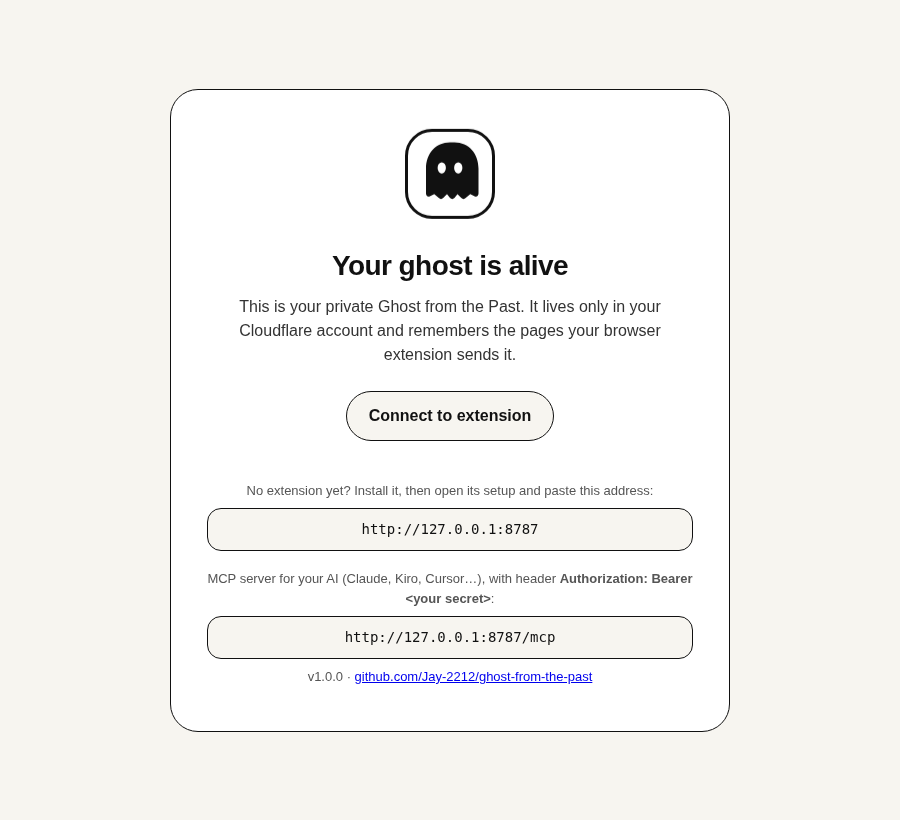
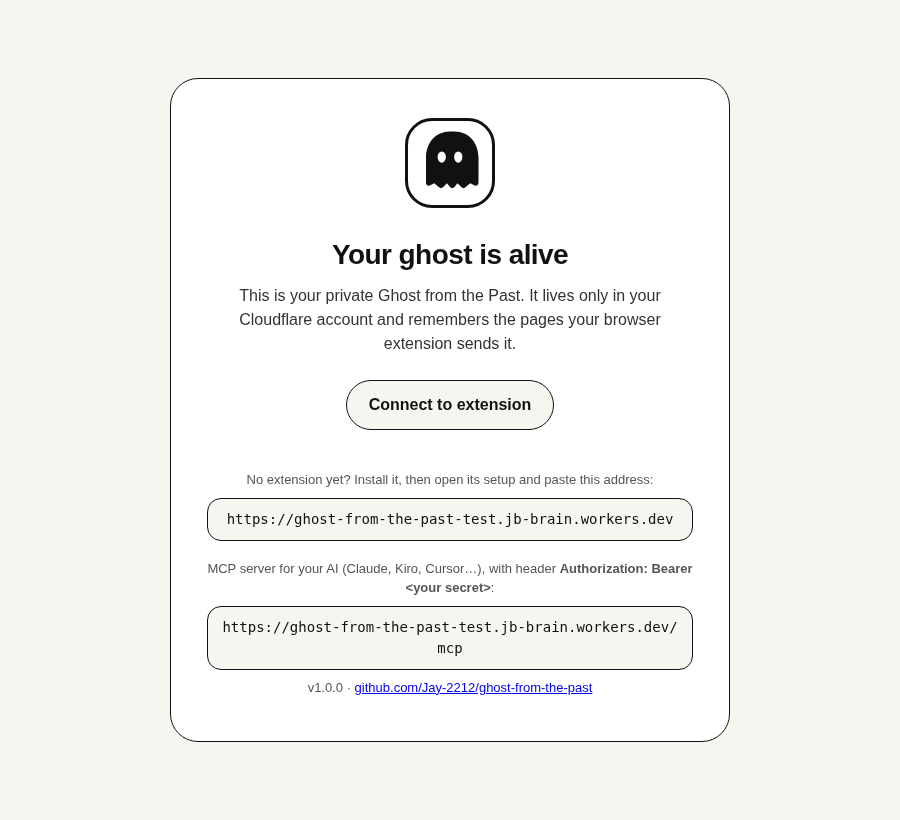
tests: hard timeout on secret wait; e2e passes connect against wrangler dev and a deployed test Worker (Hark)

diff --git a/shots/mcp-get_page-wikipedia.md b/shots/mcp-get_page-wikipedia.md
@@ -1,0 +1,23 @@
+# Ghost
+https://en.wikipedia.org/wiki/Ghost
+Kind: wikipedia-article · first read 2026-11-05T07:37:11.692Z · last 2026-11-05T07:37:16.175Z · time spent 4s · visits 1
+
+---
+
+# Ghost
+
+> Wikipedia article · en.wikipedia.org
+
+In [folklore](https://en.wikipedia.org/wiki/Folklore "Folklore"), a **ghost** is the [soul](https://en.wikipedia.org/wiki/Soul "Soul") or [spirit](https://en.wikipedia.org/wiki/Spirit_\(supernatural_entity\) "Spirit (supernatural entity)") of a dead [person](https://en.wikipedia.org/wiki/Human "Human") or non-human [animal](https://en.wikipedia.org/wiki/Animal "Animal") that is believed by some people to be able to appear to the living. In [ghostlore](https://en.wikipedia.org/wiki/Ghostlore "Ghostlore"), descriptions of ghosts vary widely, from an invisible presence to translucent or barely visible wispy shapes to realistic, lifelike forms, whether they resemble humans or animals. The deliberate attempt to contact the spirit of a deceased person is known as [necromancy](https://en.wikipedia.org/wiki/Necromancy "Necromancy"), or in [spiritism](https://en.wikipedia.org/wiki/Kardecist_spiritism "Kardecist spiritism") as a _[séance](https://en.wikipedia.org/wiki/Séance "Séance")_. Other terms associated with it are apparition, haunt, haint, phantom, [poltergeist](https://en.wikipedia.org/wiki/Poltergeist "Poltergeist"), [shade](https://en.wikipedia.org/wiki/Shade_\(mythology\) "Shade (mythology)"), specter, spirit, spook, wraith, [demon](https://en.wikipedia.org/wiki/Demon "Demon"), and [ghoul](https://en.wikipedia.org/wiki/Ghoul "Ghoul").
+
+The belief in the existence of an [afterlife](https://en.wikipedia.org/wiki/Afterlife "Afterlife"), as well as manifestations of the spirits of the dead, is widespread, dating back to [animism](https://en.wikipedia.org/wiki/Animism "Animism") or [ancestor worship](https://en.wikipedia.org/wiki/Ancestor_worship "Ancestor worship") in pre-literate cultures. Certain religious practices—funeral rites, [exorcisms](https://en.wikipedia.org/wiki/Exorcism "Exorcism"), and some practices of [spiritualism](https://en.wikipedia.org/wiki/Spiritualism_\(beliefs\) "Spiritualism (beliefs)") and [ritual magic](https://en.wikipedia.org/wiki/Ritual_magic "Ritual magic")—are specifically designed to rest the spirits of the dead. Ghosts are generally described as solitary, human-like essences, though stories of ghostly armies and the ghosts of animals other than humans have also been recounted. They are believed to haunt particular [locations](https://en.wikipedia.org/wiki/List_of_reportedly_haunted_locations "List of reportedly haunted locations"), objects, or people they were associated with in life. According to a 2009 study by the [Pew Research Center](https://en.wikipedia.org/wiki/Pew_Research_Center "Pew Research Center"), 18% of Americans say they have seen a ghost.
+
+Ghosts are not a scientifically testable concept. The existence of ghosts is impossible to [falsify](https://en.wikipedia.org/wiki/Falsifiability "Falsifiability"), and [ghost hunting](https://en.wikipedia.org/wiki/Ghost_hunting "Ghost hunting") has been classified as [pseudoscience](https://en.wikipedia.org/wiki/Pseudoscience "Pseudoscience"). Despite centuries of investigation, there is no [scientific evidence](https://en.wikipedia.org/wiki/Scientific_evidence "Scientific evidence") that any location is inhabited by the spirits of the dead. Historically, certain toxic and [psychoactive plants](https://en.wikipedia.org/wiki/Psychoactive_plant "Psychoactive plant") (such as _[datura](https://en.wikipedia.org/wiki/Datura "Datura")_ and _[hyoscyamus niger](https://en.wikipedia.org/wiki/Hyoscyamus_niger "Hyoscyamus niger")_), whose use has long been associated with necromancy and the [underworld](https://en.wikipedia.org/wiki/Underworld "Underworld"), have been shown to contain [anticholinergic](https://en.wikipedia.org/wiki/Anticholinergic "Anticholinergic") compounds that are pharmacologically linked to [dementia](https://en.wikipedia.org/wiki/Dementia "Dementia") (specifically [DLB](https://en.wikipedia.org/wiki/Dementia_with_Lewy_bodies "Dementia with Lewy bodies")) as well as histological patterns of [neurodegeneration](https://en.wikipedia.org/wiki/Neurodegeneration "Neurodegeneration"). Recent research has indicated that ghost sightings may be related to degenerative brain diseases such as [Alzheimer's disease](https://en.wikipedia.org/wiki/Alzheimer's_disease "Alzheimer's disease"). Common prescription medication and [over-the-counter drugs](https://en.wikipedia.org/wiki/Over-the-counter_drugs "Over-the-counter drugs") (such as [sleep aids](https://en.wikipedia.org/wiki/Sleep_aids "Sleep aids")) may also, in rare instances, cause ghost-like hallucinations, particularly [zolpidem](https://en.wikipedia.org/wiki/Zolpidem "Zolpidem") and [diphenhydramine](https://en.wikipedia.org/wiki/Diphenhydramine "Diphenhydramine"). Older reports linked [carbon monoxide](https://en.wikipedia.org/wiki/Carbon_monoxide "Carbon monoxide") poisoning to ghost-like hallucinations.
+
+In [folklore studies](https://en.wikipedia.org/wiki/Folklore_studies "Folklore studies"), ghosts fall within the [motif index](https://en.wikipedia.org/wiki/Motif-Index_of_Folk-Literature "Motif-Index of Folk-Literature") designation E200–E599 ("Ghosts and other revenants").
+
+## Terminology
+
+### Etymology
+
+The English word [_ghost_](https://en.wiktionary.org/wiki/ghost "wikt:ghost") comes from [Old English](https://en.wikipedia.org/wiki/Old_English "Old English") _[gāst](https://en.wiktionary.org/wiki/gast#Old_English "wikt:gast")_ ("breath, spirit, soul, ghost"), which can be traced back to [Proto-Germanic](https://en.wikipedia.org/wiki/Proto-Germanic "Proto-Germanic") _[\*gaistaz](https://en.wiktionary.org/wiki/Reconstruction:Proto-Germanic/gaistaz "wikt:Reconstruction:Proto-Germanic/gaistaz")_ ("spirit, ghost"). It is [cognate](https://en.wikipedia.org/wiki/Cognate "Cognate") (linguistic sibling from a common origin) with [Old 
